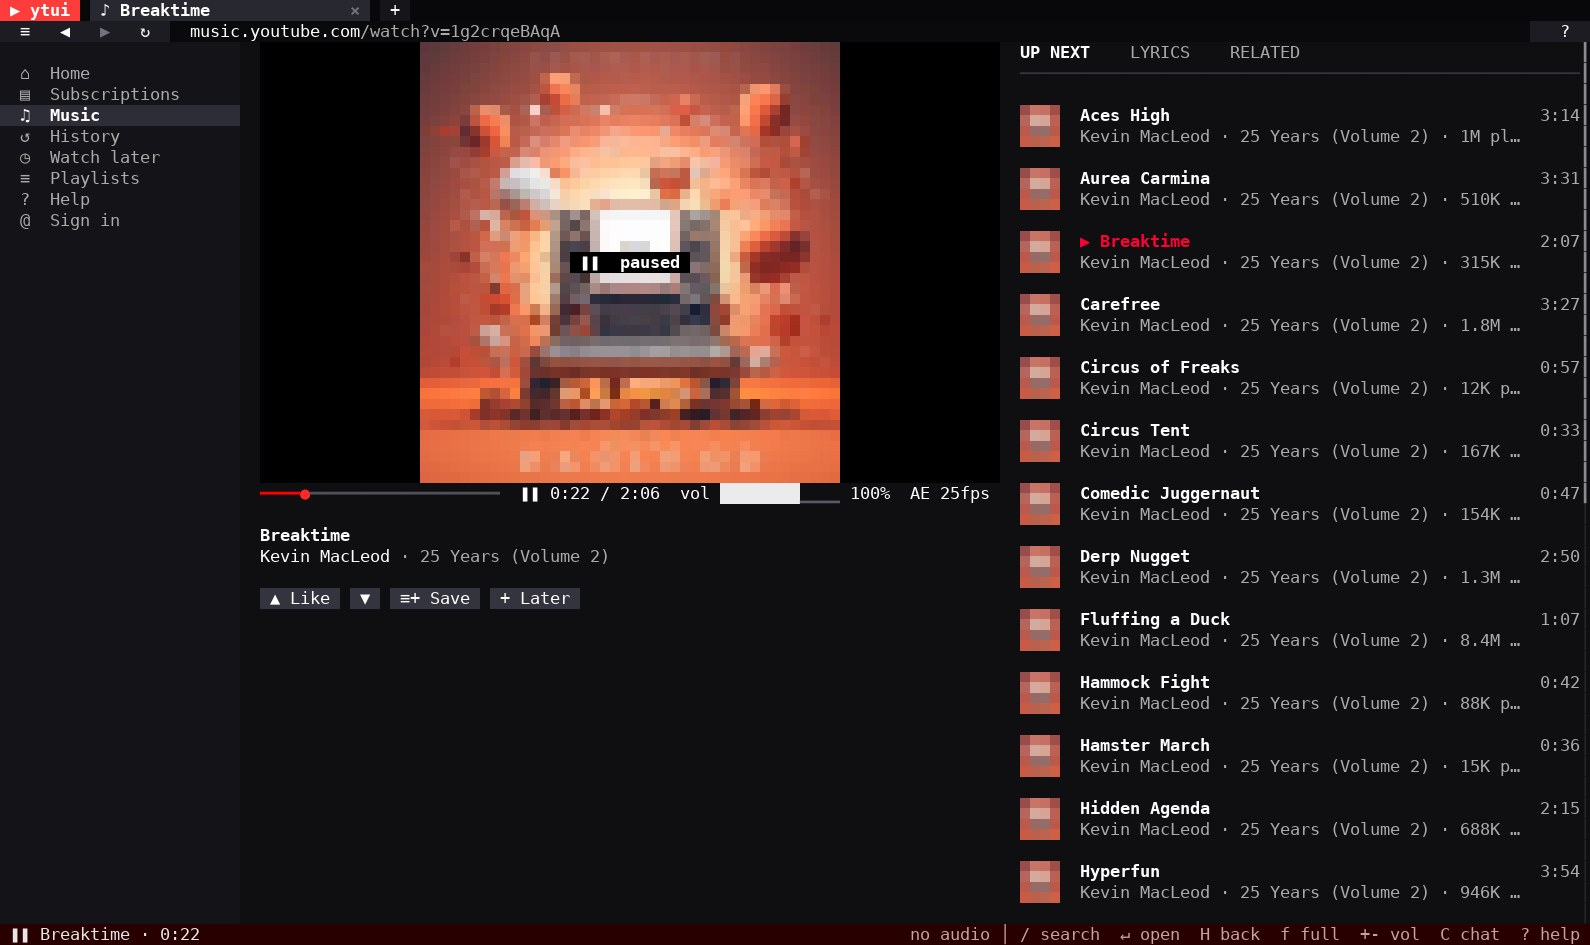
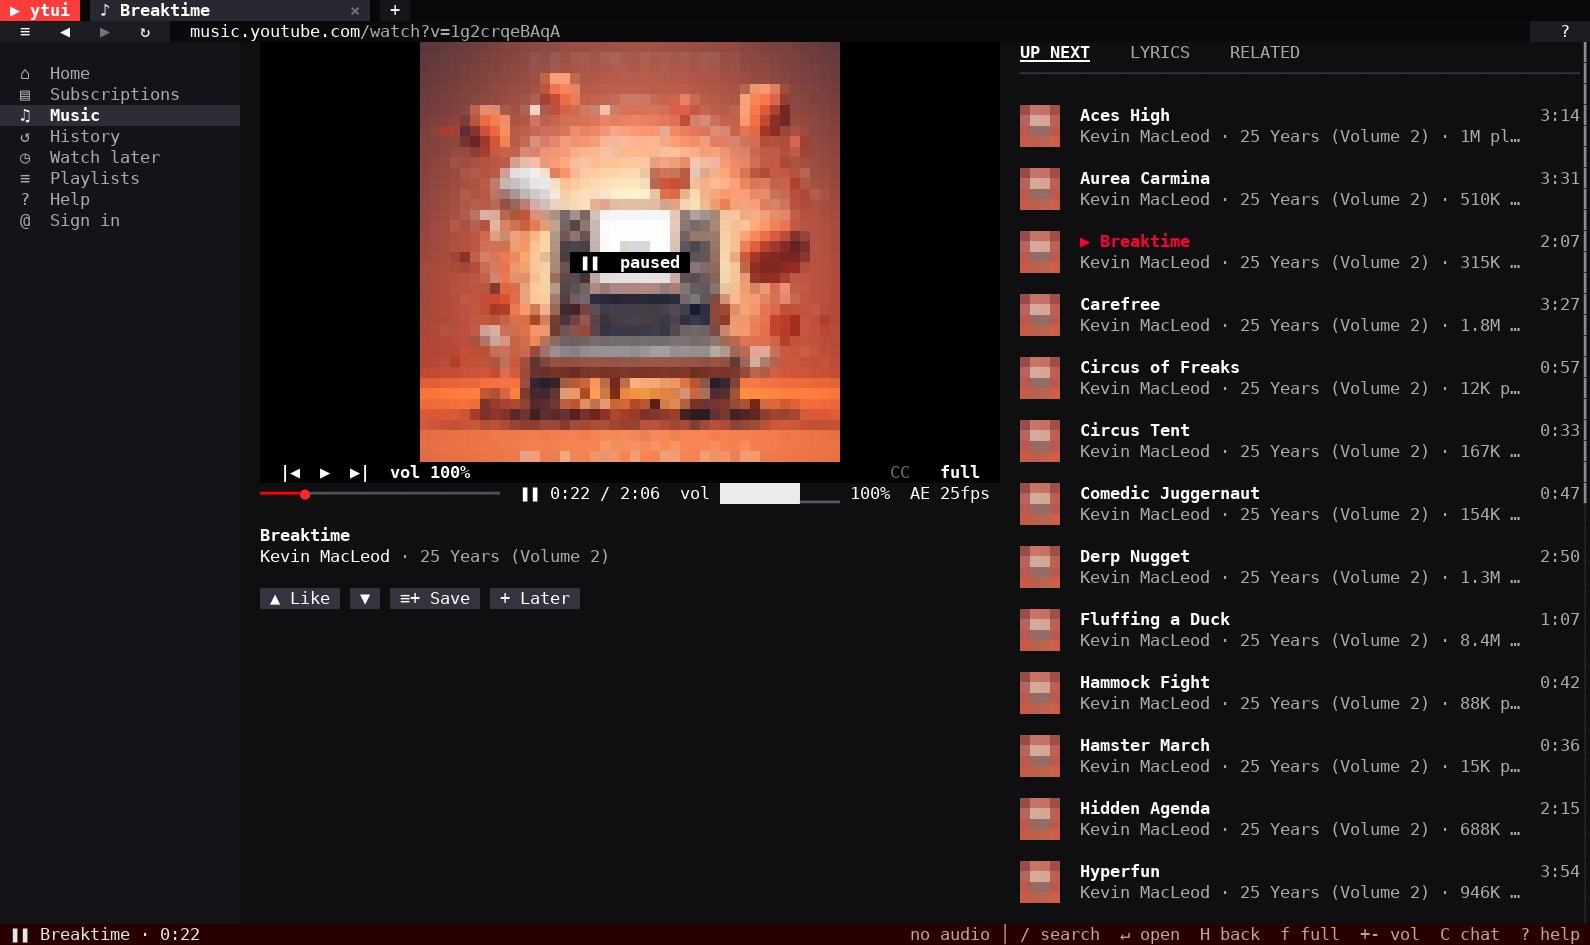
Screenshots and SEO tags show the player controls
Retake the half-block (Big Buck Bunny), captions (Sintel) and music
player (Breaktime, Kevin MacLeod) screenshots paused, so the controls
show on the video, and rebuild the social preview from the new
half-block shot. Alt text and captions follow the new pictures.

Meta and og descriptions, the JSON-LD description, features and
screenshots, the site description, and the Playback and Keys page
descriptions now mention the player controls. A feature card, a FAQ
entry (visible and in FAQPage) and a README bullet describe them. Doc
pages get og:image size and alt tags.

Changed region(s): [[0.2465, 0.491, 0.5239, 0.5217], [0.5855, 0.491, 0.6164, 0.5217]]

diff --git a/docs/index.html b/docs/index.html
@@ -7,7 +7,7 @@ layout: null
 <meta charset="utf-8">
 <meta name="viewport" content="width=device-width, initial-scale=1">
 <title>ytui: watch YouTube in the terminal (TUI client for Windows, Linux, macOS)</title>
-<meta name="description" content="ytui is a free, open-source terminal YouTube and YouTube Music client. Search and watch YouTube in your terminal as 24-bit colour half blocks, at 60 fps. Windows, Linux and macOS.">
+<meta name="description" content="Free, open-source YouTube and YouTube Music in the terminal: 60 fps video in 24-bit colour, with YouTube-style player controls. Windows, Linux and macOS.">
 <link rel="canonical" href="https://bong-water-water-bong.github.io/ytui/">
 <meta name="theme-color" content="#e8eaee" media="(prefers-color-scheme: light)">
 <meta name="theme-color" content="#16181d" media="(prefers-color-scheme: dark)">
@@ -15,14 +15,14 @@ layout: null
 <meta property="og:type" content="website">
 <meta property="og:site_name" content="ytui">
 <meta property="og:title" content="ytui: watch YouTube in the terminal">
-<meta property="og:description" content="A terminal YouTube client. Play video as 24-bit colour half blocks at 60 fps, on Windows, Linux and macOS.">
+<meta property="og:description" content="A terminal YouTube and YouTube Music client. Play 60 fps video as 24-bit colour half blocks, with YouTube-style player controls, on Windows, Linux and macOS.">
 <meta property="og:url" content="https://bong-water-water-bong.github.io/ytui/">
 <meta property="og:image" content="https://bong-water-water-bong.github.io/ytui/social-preview.jpg">
 <meta property="og:image:width" content="1280">
 <meta property="og:image:height" content="640">
-<meta property="og:image:alt" content="ytui playing Big Buck Bunny as 24-bit colour half blocks in a terminal">
+<meta property="og:image:alt" content="ytui playing Big Buck Bunny as 24-bit colour half blocks in a terminal, paused with the player controls showing">
 <meta name="twitter:card" content="summary_large_image">
-<meta name="twitter:image:alt" content="ytui playing Big Buck Bunny as 24-bit colour half blocks in a terminal">
+<meta name="twitter:image:alt" content="ytui playing Big Buck Bunny as 24-bit colour half blocks in a terminal, paused with the player controls showing">
 
 <link rel="preconnect" href="https://fonts.googleapis.com">
 <link rel="preconnect" href="https://fonts.gstatic.com" crossorigin>
@@ -34,7 +34,7 @@ layout: null
   "@type": "SoftwareApplication",
   "name": "ytui",
   "alternateName": "YouTube TUI",
-  "description": "A terminal YouTube client: search, browse and watch YouTube in the terminal as 24-bit colour half blocks, at up to 60 fps.",
+  "description": "A terminal YouTube and YouTube Music client: search, browse and watch YouTube in the terminal as 24-bit colour half blocks, at up to 60 fps, with YouTube-style player controls.",
   "applicationCategory": "MultimediaApplication",
   "applicationSubCategory": "Video player",
   "operatingSystem": "Windows 10, Windows 11, Linux, macOS",
@@ -46,7 +46,8 @@ layout: null
   "screenshot": [
     "https://bong-water-water-bong.github.io/ytui/screenshots/home.jpg",
     "https://bong-water-water-bong.github.io/ytui/screenshots/halfblock.jpg",
-    "https://bong-water-water-bong.github.io/ytui/screenshots/captions.jpg"
+    "https://bong-water-water-bong.github.io/ytui/screenshots/captions.jpg",
+    "https://bong-water-water-bong.github.io/ytui/screenshots/music-player.jpg"
   ],
   "softwareVersion": "2026.10.17",
   "datePublished": "2026-10-16",
@@ -56,6 +57,7 @@ layout: null
   "featureList": [
     "Watch YouTube in the terminal as 24-bit colour half blocks",
     "60 fps playback through ffmpeg",
+    "YouTube-style player controls on the video: previous, play/pause, next, mute, captions and fullscreen",
     "Home, Trending, search, channels, playlists, comments and live chat",
     "YouTube Music: Home, Explore, charts, search, artists, albums, library, queue and lyrics",
     "Captions, autoplay, tabs and watch later",
@@ -90,6 +92,11 @@ layout: null
       "@type": "Question",
       "name": "Does ytui need a YouTube account or API key?",
       "acceptedAnswer": { "@type": "Answer", "text": "No. Searching, browsing and watching work signed out with no API key. Signing in with Google is optional and adds your recommendations, subscriptions, playlists, likes and comments." }
+    },
+    {
+      "@type": "Question",
+      "name": "Can I control playback with the mouse?",
+      "acceptedAnswer": { "@type": "Answer", "text": "Yes. Move the mouse over the video and ytui shows YouTube-style controls on it: previous, play/pause, next, mute, captions and fullscreen. Click the progress bar to seek and drag the volume slider. The keyboard works too: space pauses, comma and period seek, and f goes fullscreen." }
     },
     {
       "@type": "Question",
@@ -181,11 +188,11 @@ layout: null
       <p class="sub">Each cell is a truecolour half block: two pixels, one above the other. ytui sends only the cells that changed and sizes each frame to what your terminal can keep up with, so fast motion gets slightly coarser instead of dropping frames. <a href="guide/render-modes/">How it works</a>.</p>
       <div class="gallery">
         <figure>
-          <div class="frame"><img src="screenshots/halfblock.jpg" srcset="screenshots/halfblock-800.jpg 800w, screenshots/halfblock.jpg 1580w" decoding="async" sizes="(max-width: 860px) calc(100vw - 46px), 570px" width="1580" height="945" loading="lazy" alt="Big Buck Bunny's ear in front of an apple tree, drawn as half blocks, fullscreen and paused, with the player bar at the bottom"></div>
-          <figcaption><strong>Half blocks.</strong> Fullscreen and paused, with the player bar at the bottom.</figcaption>
+          <div class="frame"><img src="screenshots/halfblock.jpg" srcset="screenshots/halfblock-800.jpg 800w, screenshots/halfblock.jpg 1580w" decoding="async" sizes="(max-width: 860px) calc(100vw - 46px), 570px" width="1580" height="945" loading="lazy" alt="Big Buck Bunny sitting in a meadow, drawn as half blocks, fullscreen and paused, with the player controls and the player bar at the bottom"></div>
+          <figcaption><strong>Half blocks.</strong> Fullscreen and paused, with the player controls and the player bar at the bottom.</figcaption>
         </figure>
         <figure>
-          <div class="frame"><img src="screenshots/captions.jpg" srcset="screenshots/captions-800.jpg 800w, screenshots/captions.jpg 1580w" decoding="async" sizes="(max-width: 860px) calc(100vw - 46px), 570px" width="1580" height="945" loading="lazy" alt="Sintel fullscreen in a firelit close-up, with the English caption “You’re a fool for traveling alone, so completely unprepared.” in a black box"></div>
+          <div class="frame"><img src="screenshots/captions.jpg" srcset="screenshots/captions-800.jpg 800w, screenshots/captions.jpg 1580w" decoding="async" sizes="(max-width: 860px) calc(100vw - 46px), 570px" width="1580" height="945" loading="lazy" alt="Sintel fullscreen in a firelit close-up, with the English caption “You’re a fool for traveling alone, so completely unprepared.” in a black box, and the player controls below it"></div>
           <figcaption><strong>Captions.</strong> Bold white text in a solid black box. The first press of <kbd>S</kbd> picks your system language.</figcaption>
         </figure>
       </div>
@@ -200,6 +207,7 @@ layout: null
         <div><dt>YouTube Music</dt><dd>The <a href="guide/youtube-music/">Music</a> link opens YouTube Music in ytui: Home, Explore, charts, moods and genres, search, artists, albums, your library, and a music player with a queue, lyrics and related songs.</dd></div>
         <div><dt>Search, channels and playlists</dt><dd>Press <kbd>/</kbd> to search or paste a URL. Open channels, playlists, comments and live chat.</dd></div>
         <div><dt>60 fps playback through ffmpeg</dt><dd>Streams up to 720p by default, the lowest height YouTube serves at 60 fps.</dd></div>
+        <div><dt>Player controls</dt><dd>Move the mouse over the video for YouTube-style controls: previous, play/pause, next, mute, captions and fullscreen. Click the progress bar to seek, or drag the volume slider. Every control has a key too.</dd></div>
         <div><dt>Captions</dt><dd>Press <kbd>S</kbd> for captions in your system language, then again to go through the other tracks. ytui draws them in a black box over the video, and your language choice is remembered for later videos.</dd></div>
         <div><dt>Optional Google sign-in</dt><dd>See your recommendations, subscriptions and playlists, and like and comment. Signing in also keeps videos playing when YouTube asks you to "confirm you're not a bot".</dd></div>
         <div><dt>Works over SSH and in tmux</dt><dd>ytui runs in any truecolour terminal. Inside tmux without truecolour, it tells you the one line to add to <code>~/.tmux.conf</code>.</dd></div>
@@ -235,6 +243,10 @@ layout: null
         <details>
           <summary>Does ytui need a YouTube account or API key?</summary>
           <p>No. Searching, browsing and watching work signed out, with no API key. Signing in with Google is optional. It adds your recommendations, subscriptions, playlists, likes and comments.</p>
+        </details>
+        <details>
+          <summary>Can I control playback with the mouse?</summary>
+          <p>Yes. Move the mouse over the video and ytui shows YouTube-style controls on it: previous, play/pause, next, mute, captions and fullscreen. Click the progress bar to seek and drag the volume slider. The keyboard works too: <kbd>space</kbd> pauses, <kbd>,</kbd> and <kbd>.</kbd> seek, and <kbd>f</kbd> goes fullscreen. See <a href="guide/playback/#player-controls">player controls</a>.</p>
         </details>
         <details>
           <summary>Which terminals does ytui work in?</summary>

diff --git a/docs/_layouts/doc.html b/docs/_layouts/doc.html
@@ -9,6 +9,10 @@
 <meta name="theme-color" content="#e8eaee" media="(prefers-color-scheme: light)">
 <meta name="theme-color" content="#16181d" media="(prefers-color-scheme: dark)">
 <meta property="og:image" content="{{ '/social-preview.jpg' | absolute_url }}">
+<meta property="og:image:width" content="1280">
+<meta property="og:image:height" content="640">
+<meta property="og:image:alt" content="ytui playing Big Buck Bunny as 24-bit colour half blocks in a terminal, paused with the player controls showing">
+<meta name="twitter:image:alt" content="ytui playing Big Buck Bunny as 24-bit colour half blocks in a terminal, paused with the player controls showing">
 <link rel="preconnect" href="https://fonts.googleapis.com">
 <link rel="preconnect" href="https://fonts.gstatic.com" crossorigin>
 <link href="https://fonts.googleapis.com/css2?family=Instrument+Sans:wght@400;600&family=Martian+Mono:wdth,wght@87.5,500;100,700&display=swap" rel="stylesheet">

diff --git a/README.md b/README.md
@@ -10,10 +10,10 @@ one small Rust binary, with yt-dlp and ffmpeg doing the heavy lifting.
 ![ytui's Home page, signed out, showing the Trending feed as a grid of half-block thumbnails](docs/screenshots/home.jpg)
 *Home, signed out: the Trending feed, with thumbnails drawn as half blocks.*
 
-![Big Buck Bunny's ear in front of an apple tree, drawn as half blocks, fullscreen and paused, with the player bar at the bottom](docs/screenshots/halfblock.jpg)
+![Big Buck Bunny sitting in a meadow, drawn as half blocks, fullscreen and paused, with the player controls and the player bar at the bottom](docs/screenshots/halfblock.jpg)
 *Fullscreen and paused: each cell is a `▀` half block, two pixels in 24-bit colour.*
 
-![Sintel fullscreen in a firelit close-up, with the English caption “You’re a fool for traveling alone, so completely unprepared.” in a black box](docs/screenshots/captions.jpg)
+![Sintel fullscreen in a firelit close-up, with the English caption “You’re a fool for traveling alone, so completely unprepared.” in a black box, and the player controls below it](docs/screenshots/captions.jpg)
 *Captions (`S`): bold white text in a solid black box, in your system language.*
 
 <sub>The half-block screenshot shows [Big Buck Bunny](https://peach.blender.org/), © Blender Foundation, licensed [CC BY 3.0](https://creativecommons.org/licenses/by/3.0/). The captions screenshot shows [Sintel](https://durian.blender.org/), © Blender Foundation, licensed [CC BY 3.0](https://creativecommons.org/licenses/by/3.0/).</sub>
@@ -24,6 +24,7 @@ one small Rust binary, with yt-dlp and ffmpeg doing the heavy lifting.
 - **60 fps playback through ffmpeg:** streams up to 720p, the lowest height YouTube serves at 60 fps.
 - **YouTube's layout, in the terminal:** Home with Trending, Music, Gaming, News and more. Also search, channels, playlists, comments and live chat.
 - **YouTube Music:** the Music link opens music.youtube.com in ytui: Home, Explore, charts, moods and genres, search, artists, albums, your library, and a music player with a queue, lyrics and related songs.
+- **Player controls on the video:** move the mouse over it for YouTube-style previous, play/pause, next, mute, captions and fullscreen buttons.
 - **Optional Google sign-in:** your recommendations, subscriptions, playlists, likes and comments.
 - **Captions, volume slider, autoplay, tabs and watch later.** Mouse and keyboard both work.
 - **Runs over SSH:** it works in any truecolour terminal.
@@ -131,7 +132,7 @@ music player with Up next, Lyrics and Related tabs. A song from an album or play
 that list; anywhere else it starts a radio. music.youtube.com links open there too.
 [More about YouTube Music in ytui](https://bong-water-water-bong.github.io/ytui/guide/youtube-music/).
 
-![The music player paused on Breaktime by Kevin MacLeod: the album cover as the picture, the song and album below, and the album's songs in Up next](docs/screenshots/music-player.jpg)
+![The music player paused on Breaktime by Kevin MacLeod: the album cover as the picture, the song and album below, and the album's songs in Up next, with the player controls on the cover](docs/screenshots/music-player.jpg)
 <sub>Shows *25 Years (Volume 2)* by [Kevin MacLeod](https://incompetech.com/), licensed [CC BY 4.0](https://creativecommons.org/licenses/by/4.0/).</sub>
 
 ## Colours under tmux

diff --git a/docs/guide/playback.md b/docs/guide/playback.md
@@ -1,6 +1,6 @@
 ---
 title: Playback and audio
-description: How ytui plays YouTube through ffmpeg at up to 60 fps, plus captions, audio output and volume.
+description: How ytui plays YouTube through ffmpeg at up to 60 fps, its YouTube-style player controls, captions, audio output and volume.
 ---
 
 ## ffmpeg
@@ -24,7 +24,7 @@ then off. The language you pick is remembered for later videos. ytui fetches the
 file itself and draws each caption as bold white text in a solid black box, with a blank row above
 and below.
 
-![Sintel fullscreen in a firelit close-up, with the English caption “You’re a fool for traveling alone, so completely unprepared.” in a black box]({{ '/screenshots/captions.jpg' | relative_url }})
+![Sintel fullscreen in a firelit close-up, with the English caption “You’re a fool for traveling alone, so completely unprepared.” in a black box, and the player controls below it]({{ '/screenshots/captions.jpg' | relative_url }})
 
 ## Player controls
 

diff --git a/docs/guide/watch-youtube-in-terminal.md b/docs/guide/watch-youtube-in-terminal.md
@@ -57,7 +57,7 @@ Download `ytui-<version>-macos-arm64.tar.gz` from the
 Video is drawn as truecolour half blocks, two pixels per cell, sized to your terminal. A bigger
 window gives a sharper picture. See [video in the terminal](../render-modes/) for how it works.
 
-![Big Buck Bunny's ear in front of an apple tree, drawn as half blocks, fullscreen and paused, with the player bar at the bottom]({{ '/screenshots/halfblock.jpg' | relative_url }})
+![Big Buck Bunny sitting in a meadow, drawn as half blocks, fullscreen and paused, with the player controls and the player bar at the bottom]({{ '/screenshots/halfblock.jpg' | relative_url }})
 
 ## Watch YouTube over SSH
 

diff --git a/docs/guide/youtube-music.md b/docs/guide/youtube-music.md
@@ -43,7 +43,7 @@ it are three tabs:
 When a song ends, the next one in the queue starts. The playback keys are the same as for videos
 (`space` pauses, `,` `.` seek 10 s, `+` `-` volume, `f` fullscreen).
 
-![The music player paused on Breaktime by Kevin MacLeod: the album cover as the picture, the song and album below, and the album's songs in Up next]({{ '/screenshots/music-player.jpg' | relative_url }})
+![The music player paused on Breaktime by Kevin MacLeod: the album cover as the picture, the song and album below, and the album's songs in Up next, with the player controls on the cover]({{ '/screenshots/music-player.jpg' | relative_url }})
 
 ## Links
 

diff --git a/docs/guide/render-modes.md b/docs/guide/render-modes.md
@@ -10,7 +10,7 @@ grid, `cols × 2*rows` pixels, so nothing is scaled again in the terminal.
 
 Thumbnails, avatars and banners are drawn the same way.
 
-![Big Buck Bunny's ear in front of an apple tree, drawn as half blocks, fullscreen and paused, with the player bar at the bottom]({{ '/screenshots/halfblock.jpg' | relative_url }})
+![Big Buck Bunny sitting in a meadow, drawn as half blocks, fullscreen and paused, with the player controls and the player bar at the bottom]({{ '/screenshots/halfblock.jpg' | relative_url }})
 
 ## Why it stays smooth
 

diff --git a/docs/guide/keys.md b/docs/guide/keys.md
@@ -1,6 +1,6 @@
 ---
 title: Keys
-description: Every ytui keyboard shortcut for browsing, playback, volume, captions and the picture.
+description: Every ytui keyboard shortcut for browsing, playback, volume, captions and the picture, plus the mouse and player controls.
 ---
 
 Press `?` in ytui to see these at any time. The mouse works too: click anything, scroll with the wheel, and click
